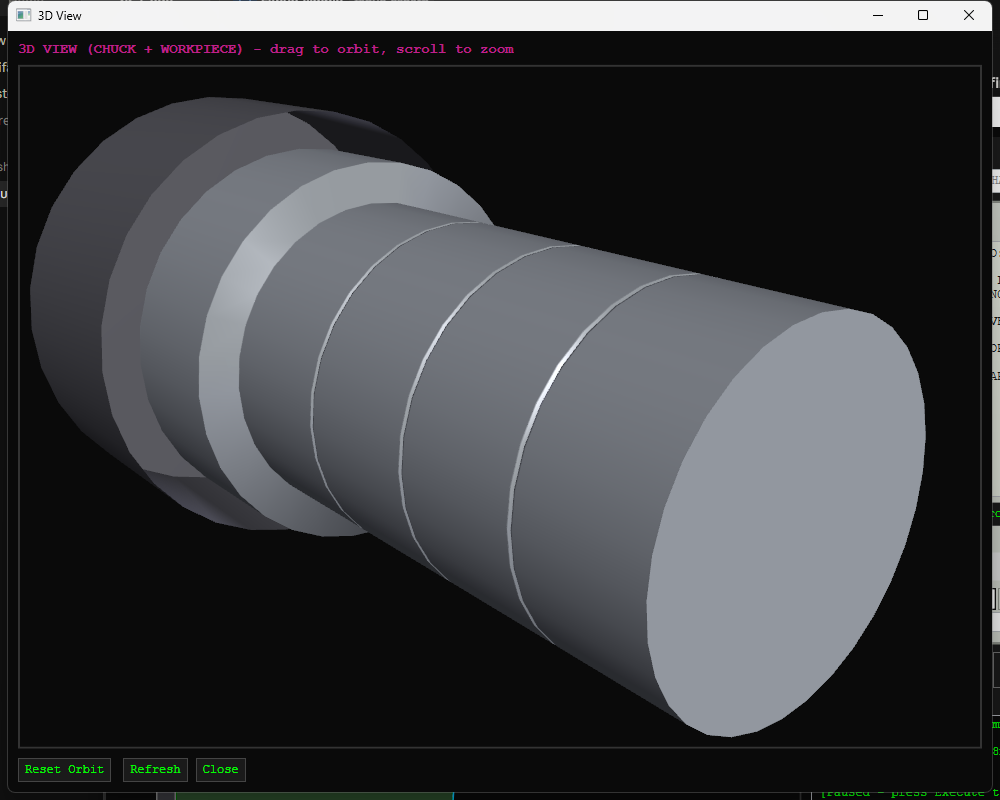
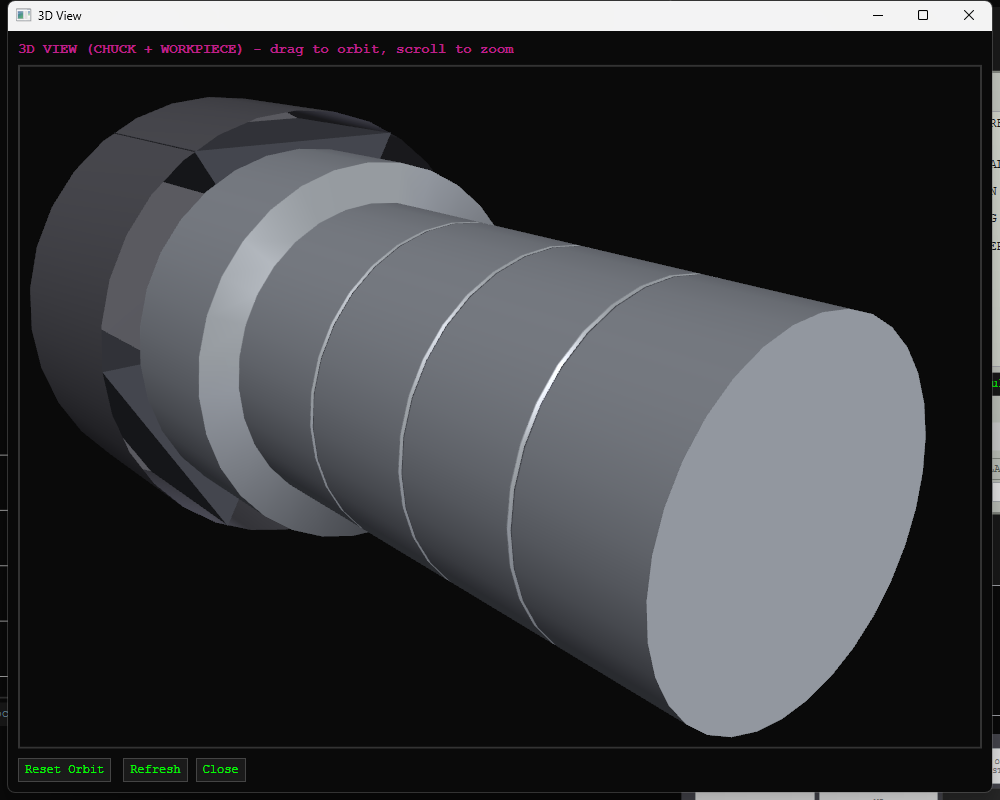
Update README for the 3-jaw chuck + tool marker refinements

diff --git a/README.md b/README.md
@@ -112,9 +112,10 @@ dotnet run
 This models a 2-axis turning center closely enough to be useful for learning and testing programs,
 not a certified twin of any real control. Not currently modeled: Custom Macro B indirect addressing
 (`#[expr]`) and multiple statements per block, and general system variables beyond the three listed
-above. The 3D view is a first pass: a plain cylinder stands in for the chuck (not real jaw
-geometry), it shows the workpiece only (no tool/toolpath in 3D), there's no cutaway/cross-section
-view, and a through-bore right at the face isn't specially mitered against the end cap.
+above. The 3D view is a first pass: the chuck is a simplified 3-jaw stand-in (flat wedge jaws, not
+manufacturer-accurate geometry), a small marker shows the tool's current position but the toolpath
+itself isn't drawn in 3D, there's no cutaway/cross-section view, and a through-bore right at the
+face isn't specially mitered against the end cap.
 
 ## License
 
